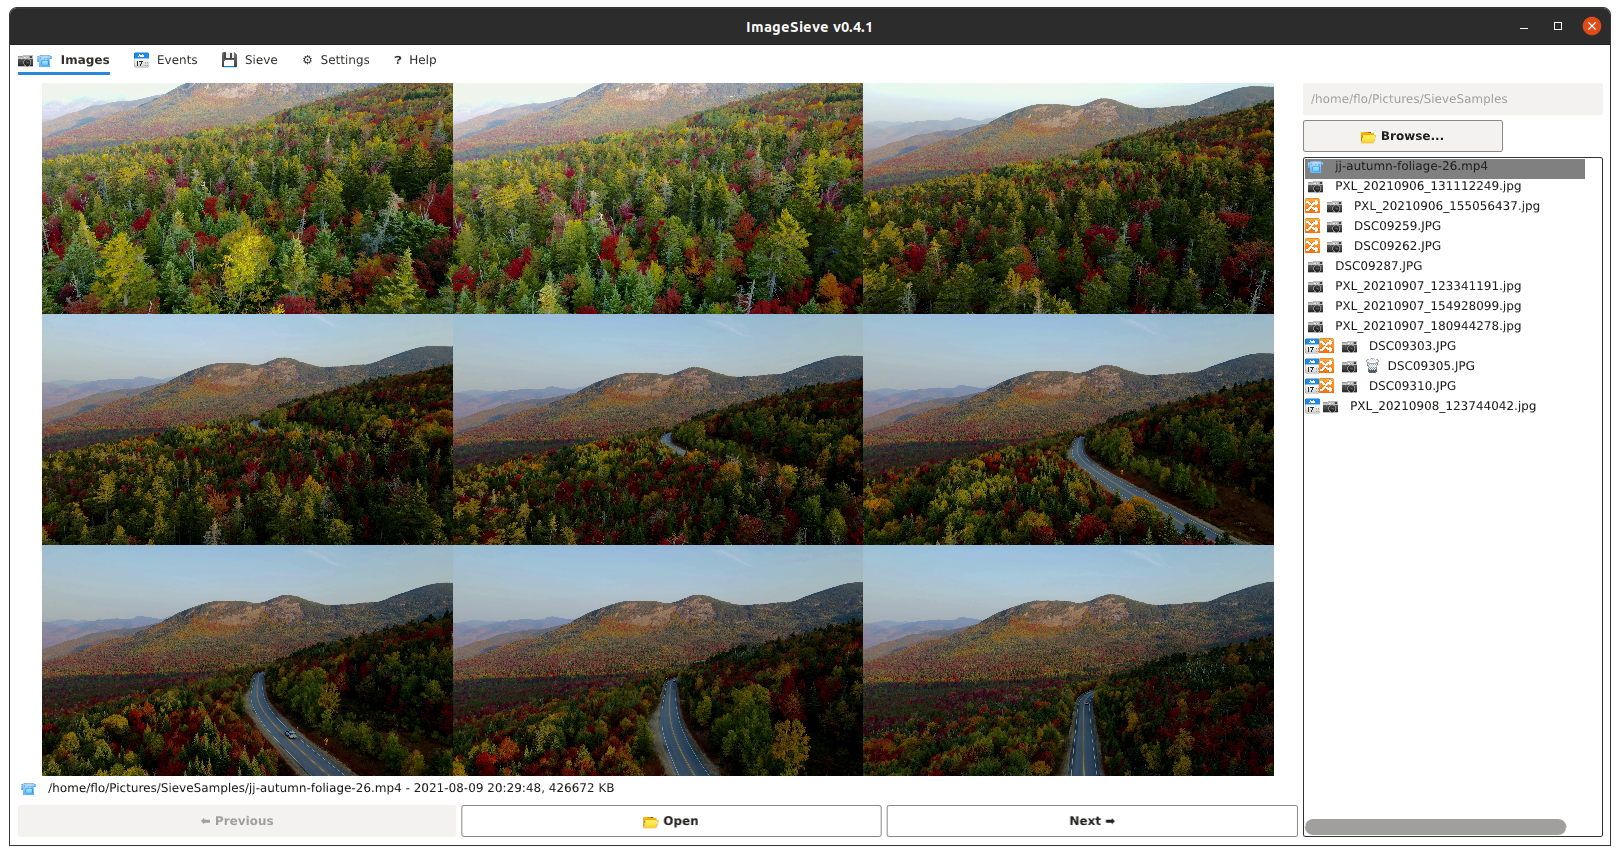
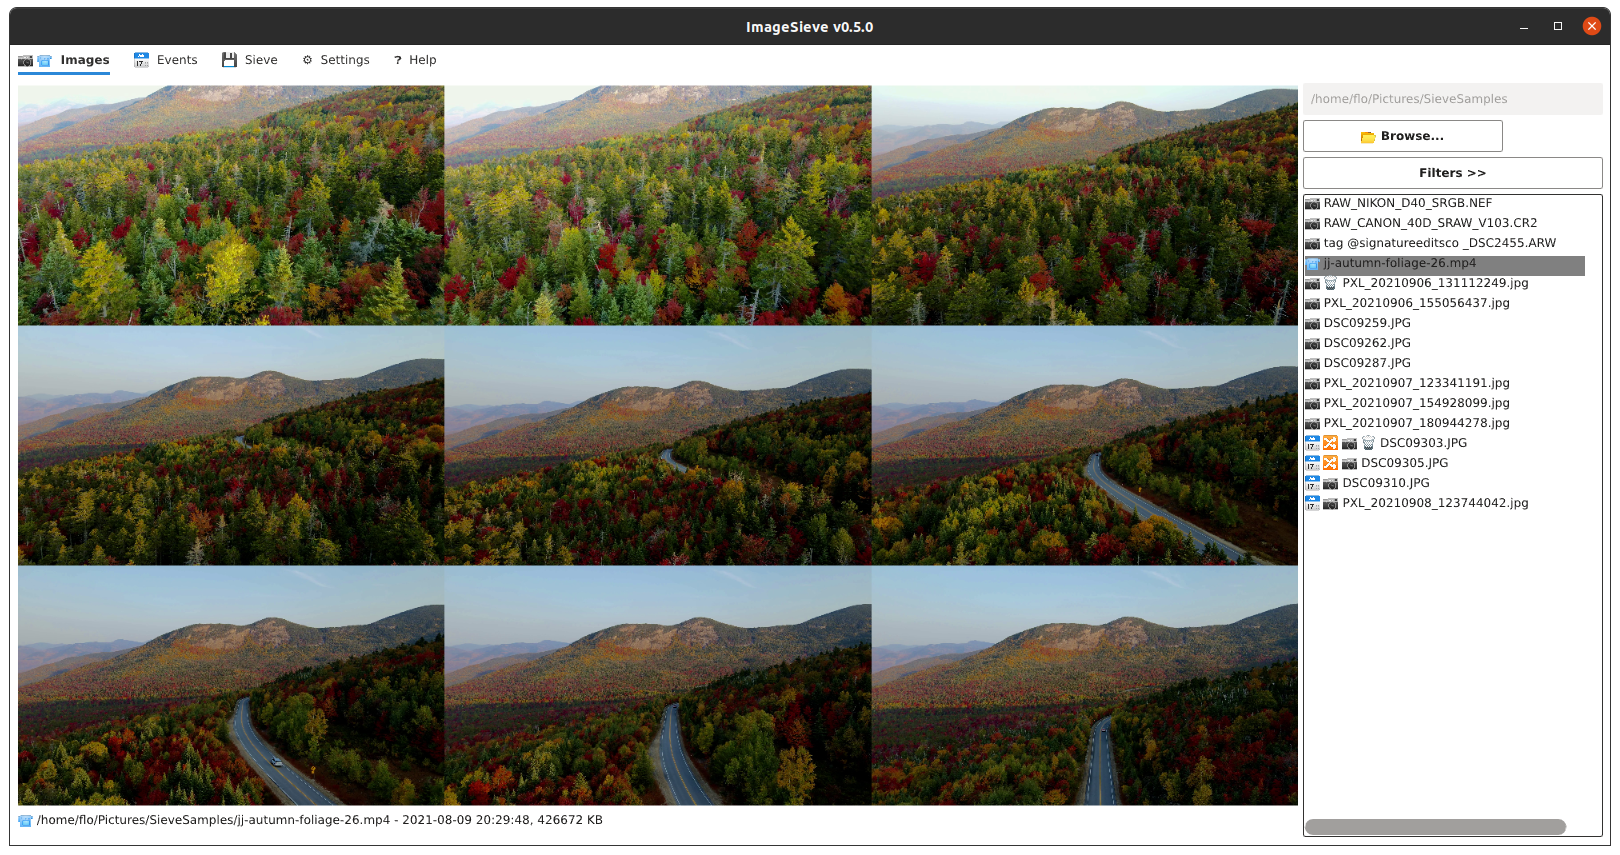
Updated screenshots

diff --git a/README.md b/README.md
@@ -4,7 +4,7 @@
 # ImageSieve
 GUI based tool to sort images based on taken date and similarity, categorize them according to their creation date and archive them in a target folder.
 
-![Screenshot](doc/screenshot.png?raw=true "ImageSieve")
+![Screenshot](doc/walkthrough.gif?raw=true "ImageSieve")
 
 ImageSieve aims to help in the process of sorting through images and videos taken with several devices and collect the images and videos worth keeping in a folder structure suitable for archiving or to eliminate potential duplicates or irrelevant images .
 
@@ -52,6 +52,7 @@ To select a file, click it and it will be shown in the image area. Below the ima
 If you want to open an image or a video with the default application in your OS, click the lower part of the image or press the "Enter" key.
 
 If an image belongs to a group of similar images, all these similar images are displayed below the current image. The currently selected one is highlighted in blue. To navigate between similar images, you can use the up and down key.
+![Screenshot](doc/screenshot.png?raw=true "ImageSieve")
 
 Note that video files are also displayed in the list of images and previewed as a 3x3 matrix of screenshots. Similiarities are not calculated for video files.
 ![Screenshot](doc/screenshot2.png?raw=true "ImageSieve")
